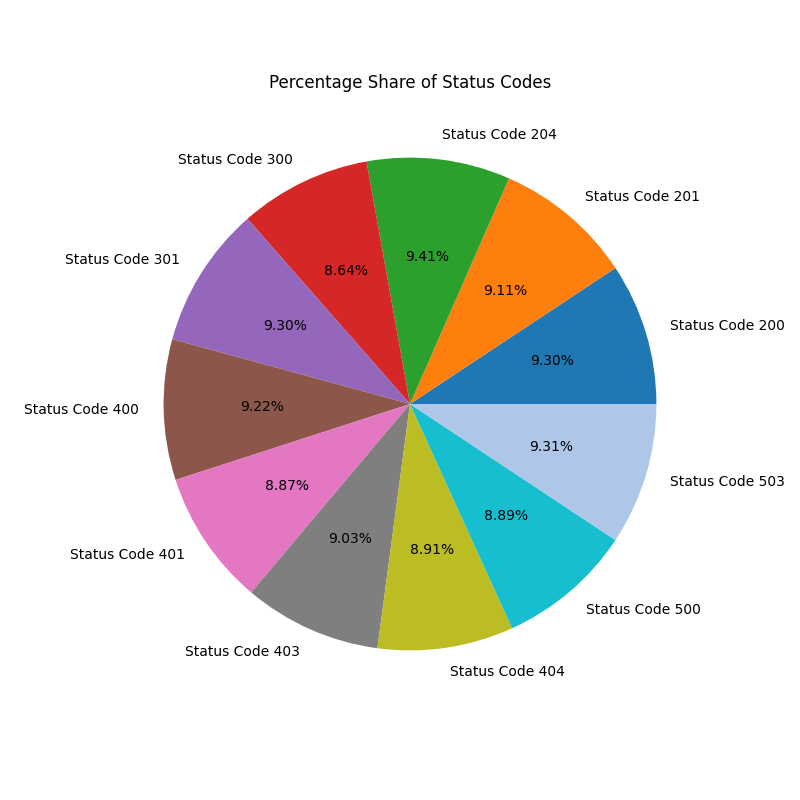
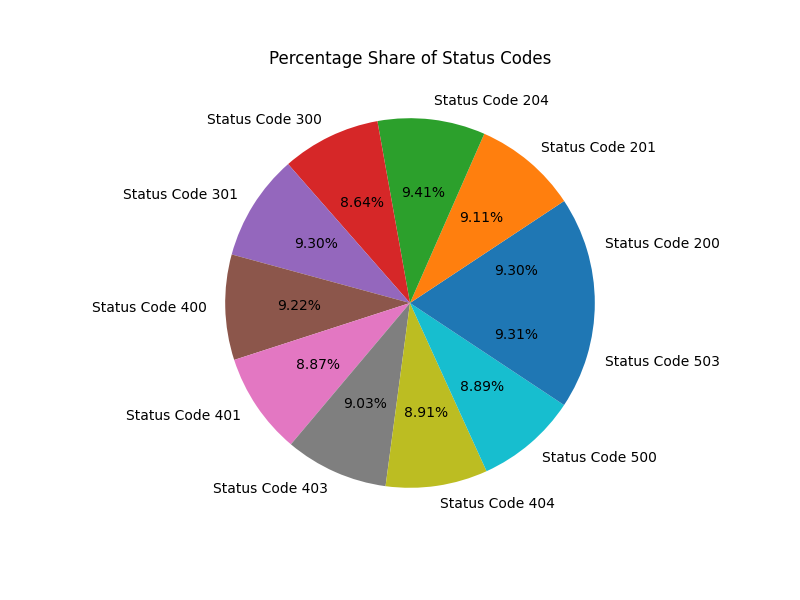
[task] write yaml file, update readme

Changed region(s): [[0.0312, 0.18, 0.9688, 0.87], [0.3438, 0.09, 0.6875, 0.12], [0.5312, 0.15, 0.6875, 0.21]]

diff --git a/log_reader/log_reader.py b/log_reader/log_reader.py
@@ -1,21 +1,7 @@
 import sys
 from collections import Counter, OrderedDict
-import matplotlib.pyplot as plot
-
-chart_colors = [
-    '#1f77b4',
-    '#ff7f0e',
-    '#2ca02c',
-    '#d62728',
-    '#9467bd',
-    '#8c564b',
-    '#e377c2',
-    '#7f7f7f',
-    '#bcbd22',
-    '#17becf',
-    '#aec7e8',
-    '#ffbb78'
-]
+import matplotlib.pyplot as plt
+import yaml
 
 def read_log_file(log_file):
     try:
@@ -44,18 +30,33 @@ def read_log_file(log_file):
             rounded_percentages = [round(percent, 2) for percent in percentages]
 
             # Plotting the pie chart
-            plot.figure(figsize=(8, 8))
-            plot.pie(sizes, colors=chart_colors, labels=labels, autopct=lambda p: '{:.2f}%'.format(p))
-            plot.title('Percentage Share of Status Codes')
+            plt.figure(figsize=(8, 6))
+            plt.pie(sizes, labels=labels, autopct=lambda p: '{:.2f}%'.format(p))
+            plt.title('Percentage Share of Status Codes')
 
             # Save the chart as statuscode.png
-            plot.savefig('statuscode.png')
-            plot.show()
+            plt.savefig('statuscode.png')
+            plt.show()
 
             # Print ordered list of status codes and their counts
             print("Ordered list of status codes and their counts:")
+            status_code_list = []
             for idx, (code, count) in enumerate(ordered_status_codes.items()):
+                status_code_list.append({'status_code': f"Status Code {code}", 'count': count, 'percentage': rounded_percentages[idx]})
                 print(f"{labels[idx]}: {rounded_percentages[idx]}%")
+
+            # Prepare data for YAML
+            status_code_list = []
+            for idx, (code, count) in enumerate(ordered_status_codes.items()):
+                status_code_data = {
+                    int(code): rounded_percentages[idx]
+                }
+                status_code_list.append(status_code_data)
+
+            # Write ordered key-value pairs to YAML file
+            with open('results.yaml', 'w') as yaml_file:
+                yaml.dump(status_code_list, yaml_file, default_flow_style=False)
+
     except FileNotFoundError:
         print("File not found! Please provide a valid file path.")
     except IOError:

diff --git a/log_reader/README.md b/log_reader/README.md
@@ -9,3 +9,42 @@
 
     python log_reader.py CSS05_Access.log
 
+# Results
+The programm will generate the following results:
+
+`statuscode.png`
+
+![Percentage Share of Status Codes](statuscode.png)
+
+`results.yaml`
+
+```yaml
+- 200: 9.3
+- 201: 9.11
+- 204: 9.41
+- 300: 8.64
+- 301: 9.3
+- 400: 9.22
+- 401: 8.87
+- 403: 9.03
+- 404: 8.91
+- 500: 8.89
+- 503: 9.31
+```
+
+command line output:
+
+```bash
+Ordered list of status codes and their counts:
+Status Code 200: 9.3%
+Status Code 201: 9.11%
+Status Code 204: 9.41%
+Status Code 300: 8.64%
+Status Code 301: 9.3%
+Status Code 400: 9.22%
+Status Code 401: 8.87%
+Status Code 403: 9.03%
+Status Code 404: 8.91%
+Status Code 500: 8.89%
+Status Code 503: 9.31%
+```
